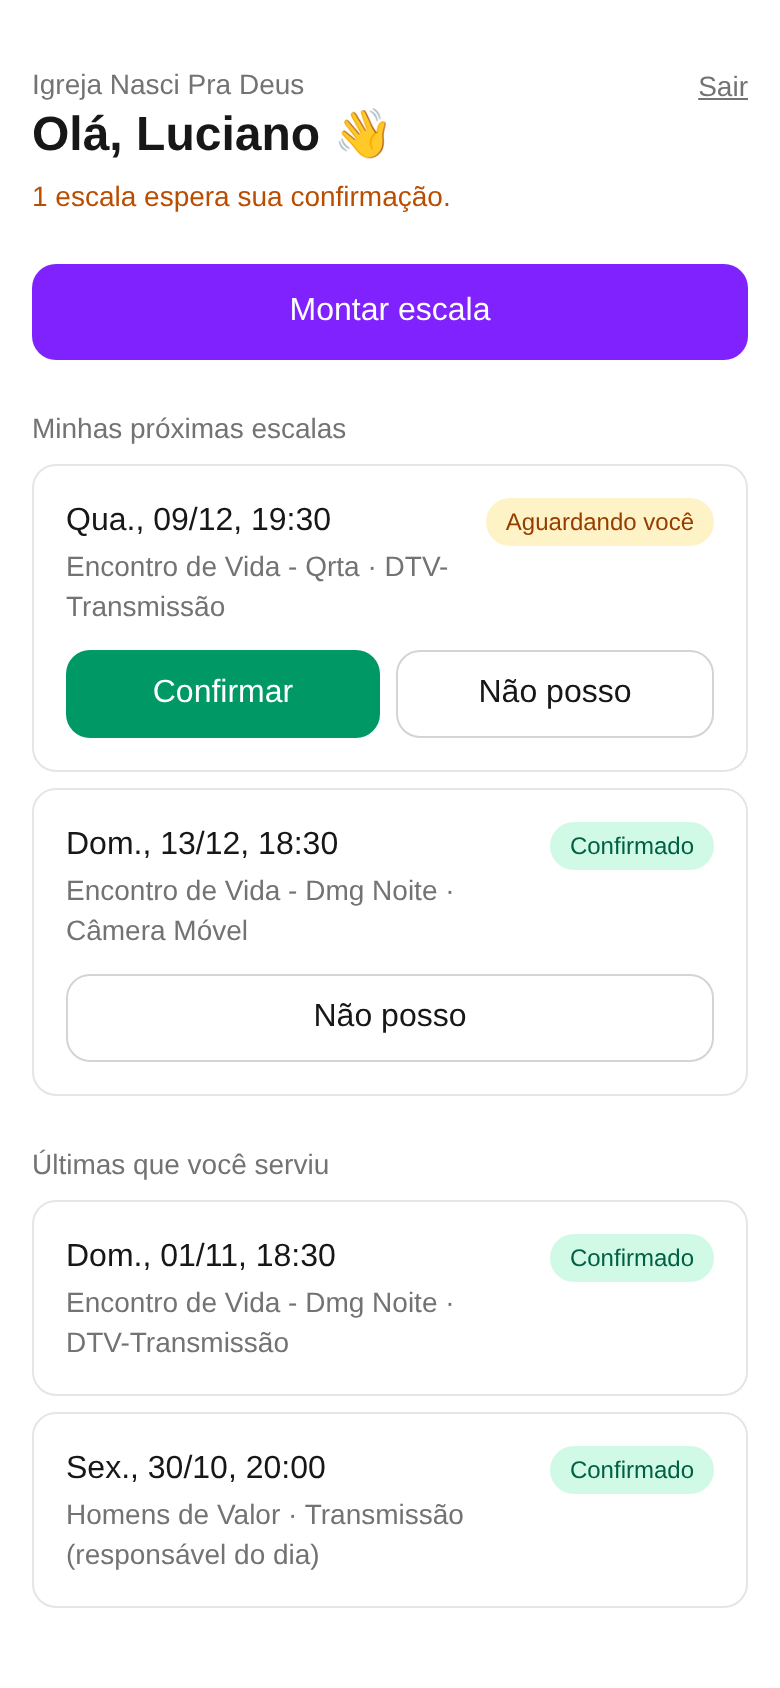
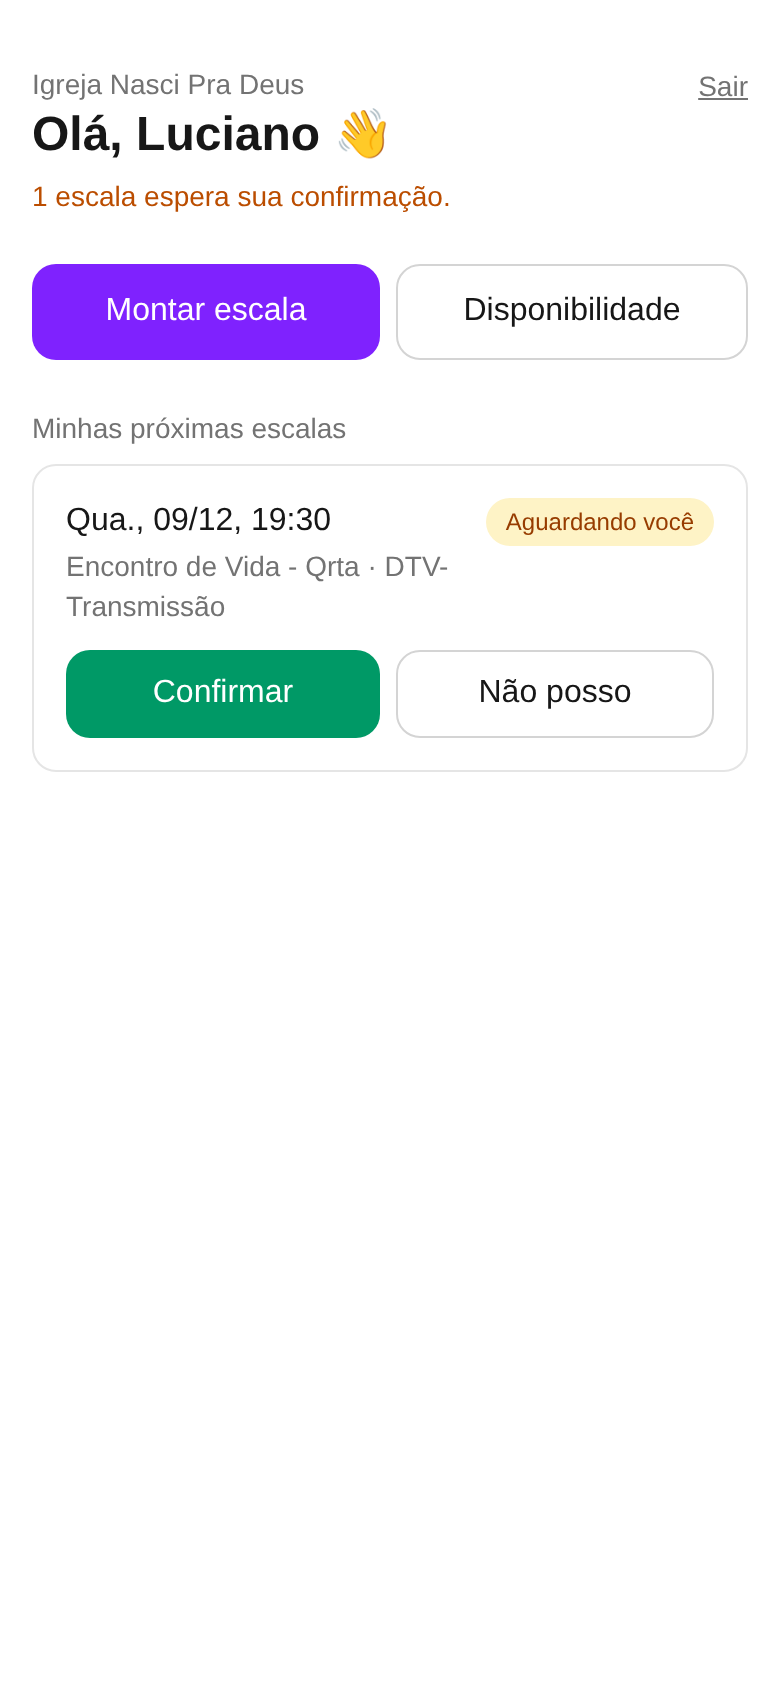
Tela Minha disponibilidade
O voluntário marca, para cada culto fixo, se pode sempre, às vezes (não
pode em certas semanas do mês: 1º a 5º) ou nunca, e cadastra viagens e
ausências por período. O rodízio da Montar escala já usa esses dados.

Claude-Session: https://claude.ai/code/session_01DEYH5sHLQRUz7gmxW8JRKX

diff --git a/src/app/disponibilidade/tela.tsx b/src/app/disponibilidade/tela.tsx
@@ -1,0 +1,165 @@
+"use client";
+
+import Link from "next/link";
+import { useState, useTransition } from "react";
+import type { Periodo } from "@/lib/escala/sugerir";
+import { nomeTurno } from "@/lib/turnos";
+import { adicionarBloqueio, removerBloqueio, salvarTurno } from "./acoes";
+
+export type RegraTurno = "sempre" | "nunca" | number[];
+
+const fmtDia = new Intl.DateTimeFormat("pt-BR", { timeZone: "UTC", day: "2-digit", month: "2-digit", year: "numeric" });
+const dia = (d: string) => fmtDia.format(new Date(`${d}T12:00:00Z`));
+
+function CartaoTurno({
+  turno,
+  ocupado,
+  rodar,
+}: {
+  turno: { diaSemana: number; periodo: Periodo; cultos: string[]; regra: RegraTurno };
+  ocupado: boolean;
+  rodar: (acao: () => Promise<{ erro: string | null }>) => void;
+}) {
+  const tipo = Array.isArray(turno.regra) ? "algumas" : turno.regra;
+  // "Algumas semanas" sem nenhuma marcada ainda é só um estado da tela.
+  const [mostrarSemanas, setMostrarSemanas] = useState(tipo === "algumas");
+  const ordens = Array.isArray(turno.regra) ? turno.regra : [];
+  const salvar = (regra: RegraTurno) => rodar(() => salvarTurno(turno.diaSemana, turno.periodo, regra));
+  const atual = mostrarSemanas ? "algumas" : tipo;
+
+  const opcao = (valor: string, texto: string, ao: () => void) => (
+    <button
+      disabled={ocupado}
+      onClick={ao}
+      className={`h-10 flex-1 rounded-lg text-sm font-medium disabled:opacity-60 ${atual === valor ? "bg-white shadow-sm dark:bg-neutral-700" : "text-neutral-500"}`}
+    >
+      {texto}
+    </button>
+  );
+
+  return (
+    <article className="rounded-xl border border-neutral-200 p-4 dark:border-neutral-800">
+      <p className="font-medium">{nomeTurno(turno)}</p>
+      <p className="mb-3 text-sm text-neutral-500">{turno.cultos.join(", ")}</p>
+      <div className="flex gap-1 rounded-xl bg-neutral-100 p-1 dark:bg-neutral-900">
+        {opcao("sempre", "Posso", () => {
+          setMostrarSemanas(false);
+          salvar("sempre");
+        })}
+        {opcao("algumas", "Às vezes", () => setMostrarSemanas(true))}
+        {opcao("nunca", "Não posso", () => {
+          setMostrarSemanas(false);
+          salvar("nunca");
+        })}
+      </div>
+      {mostrarSemanas && (
+        <div className="mt-3">
+          <p className="mb-2 text-sm text-neutral-500">Marque as semanas do mês em que você não pode:</p>
+          <div className="flex gap-2">
+            {[1, 2, 3, 4, 5].map((o) => {
+              const marcado = ordens.includes(o);
+              return (
+                <button
+                  key={o}
+                  disabled={ocupado}
+                  onClick={() => salvar(marcado ? ordens.filter((x) => x !== o) : [...ordens, o])}
+                  className={`h-10 flex-1 rounded-lg border text-sm font-medium disabled:opacity-60 ${marcado ? "border-red-300 bg-red-50 text-red-700 dark:border-red-800 dark:bg-red-950 dark:text-red-300" : "border-neutral-300 dark:border-neutral-700"}`}
+                >
+                  {o}º
+                </button>
+              );
+            })}
+          </div>
+        </div>
+      )}
+    </article>
+  );
+}
+
+export function TelaDisponibilidade({
+  turnos,
+  bloqueios,
+  hoje,
+}: {
+  turnos: { diaSemana: number; periodo: Periodo; cultos: string[]; regra: RegraTurno }[];
+  bloqueios: { id: string; inicio: string; fim: string; motivo: string | null }[];
+  hoje: string;
+}) {
+  const [ocupado, iniciar] = useTransition();
+  const [erro, setErro] = useState<string | null>(null);
+  const [novo, setNovo] = useState({ inicio: "", fim: "", motivo: "" });
+
+  const rodar = (acao: () => Promise<{ erro: string | null }>, depois?: () => void) =>
+    iniciar(async () => {
+      const r = await acao();
+      setErro(r.erro);
+      if (!r.erro) depois?.();
+    });
+
+  const campo = "h-11 rounded-xl border border-neutral-300 bg-transparent px-3 dark:border-neutral-700";
+
+  return (
+    <main className="mx-auto flex min-h-dvh max-w-md flex-col gap-6 px-4 py-8">
+      <header className="flex flex-col gap-1">
+        <Link href="/" className="text-sm text-neutral-500">
+          ← Minhas escalas
+        </Link>
+        <h1 className="text-2xl font-semibold">Minha disponibilidade</h1>
+        <p className="text-sm text-neutral-500">
+          O coordenador só sugere você nos dias em que você pode. Mudou algo? É só ajustar aqui.
+        </p>
+      </header>
+
+      {erro && <p className="rounded-xl bg-red-50 p-3 text-sm text-red-700 dark:bg-red-950 dark:text-red-300">{erro}</p>}
+
+      <section className="flex flex-col gap-2">
+        <h2 className="text-sm font-medium text-neutral-500">Cultos de toda semana</h2>
+        {turnos.map((t) => (
+          <CartaoTurno key={`${t.diaSemana}|${t.periodo}`} turno={t} ocupado={ocupado} rodar={rodar} />
+        ))}
+      </section>
+
+      <section className="flex flex-col gap-2">
+        <h2 className="text-sm font-medium text-neutral-500">Viagens e ausências</h2>
+        {bloqueios.length === 0 && <p className="text-sm text-neutral-500">Nenhuma ausência marcada.</p>}
+        {bloqueios.map((b) => (
+          <article key={b.id} className="flex items-center justify-between gap-3 rounded-xl border border-neutral-200 p-4 dark:border-neutral-800">
+            <div>
+              <p className="font-medium">{b.inicio === b.fim ? dia(b.inicio) : `${dia(b.inicio)} a ${dia(b.fim)}`}</p>
+              {b.motivo && <p className="text-sm text-neutral-500">{b.motivo}</p>}
+            </div>
+            <button disabled={ocupado} onClick={() => rodar(() => removerBloqueio(b.id))} className="text-sm text-red-600 underline disabled:opacity-50">
+              Remover
+            </button>
+          </article>
+        ))}
+
+        <form
+          className="flex flex-col gap-2 rounded-xl border border-dashed border-neutral-300 p-4 dark:border-neutral-700"
+          onSubmit={(e) => {
+            e.preventDefault();
+            rodar(() => adicionarBloqueio(novo.inicio, novo.fim || novo.inicio, novo.motivo), () =>
+              setNovo({ inicio: "", fim: "", motivo: "" }),
+            );
+          }}
+        >
+          <p className="font-medium">Adicionar ausência</p>
+          <div className="flex gap-2">
+            <label className="flex flex-1 flex-col gap-1 text-sm text-neutral-500">
+              De
+              <input type="date" required min={hoje} value={novo.inicio} onChange={(e) => setNovo({ ...novo, inicio: e.target.value })} className={campo} />
+            </label>
+            <label className="flex flex-1 flex-col gap-1 text-sm text-neutral-500">
+              Até
+              <input type="date" min={novo.inicio || hoje} value={novo.fim} onChange={(e) => setNovo({ ...novo, fim: e.target.value })} className={campo} />
+            </label>
+          </div>
+          <input placeholder="Motivo (opcional): viagem, plantão..." value={novo.motivo} onChange={(e) => setNovo({ ...novo, motivo: e.target.value })} className={campo} />
+          <button disabled={ocupado} className="h-11 rounded-xl bg-violet-600 font-medium text-white disabled:opacity-50">
+            {ocupado ? "Salvando..." : "Adicionar"}
+          </button>
+        </form>
+      </section>
+    </main>
+  );
+}

diff --git a/src/app/disponibilidade/acoes.ts b/src/app/disponibilidade/acoes.ts
@@ -1,0 +1,66 @@
+"use server";
+
+import { revalidatePath } from "next/cache";
+import type { Periodo } from "@/lib/escala/sugerir";
+import { criarClienteServidor } from "@/lib/supabase/server";
+
+type Resultado = { erro: string | null };
+const PERIODOS: Periodo[] = ["manha", "tarde", "noite"];
+const DATA = /^\d{4}-\d{2}-\d{2}$/;
+
+/**
+ * Regra de um turno: "sempre" posso, "nunca" posso, ou não posso só em
+ * algumas semanas do mês (1º a 5º).
+ */
+export async function salvarTurno(
+  diaSemana: number,
+  periodo: Periodo,
+  regra: "sempre" | "nunca" | number[],
+): Promise<Resultado> {
+  if (!Number.isInteger(diaSemana) || diaSemana < 0 || diaSemana > 6 || !PERIODOS.includes(periodo)) {
+    return { erro: "Turno inválido" };
+  }
+  const supabase = await criarClienteServidor();
+  const { data: eu } = await supabase.rpc("minha_pessoa");
+  if (!eu) return { erro: "Cadastro não encontrado" };
+
+  const { error: erroApagar } = await supabase
+    .from("indisponibilidades")
+    .delete()
+    .eq("pessoa_id", eu)
+    .eq("dia_semana", diaSemana)
+    .eq("periodo", periodo);
+  if (erroApagar) return { erro: erroApagar.message };
+
+  const ordens = Array.isArray(regra) ? [...new Set(regra)].filter((o) => o >= 1 && o <= 5) : [];
+  const linhas: { pessoa_id: string; dia_semana: number; periodo: Periodo; ordem_no_mes: number | null }[] =
+    regra === "nunca"
+      ? [{ pessoa_id: eu, dia_semana: diaSemana, periodo, ordem_no_mes: null }]
+      : ordens.map((o) => ({ pessoa_id: eu, dia_semana: diaSemana, periodo, ordem_no_mes: o }));
+  if (linhas.length) {
+    const { error } = await supabase.from("indisponibilidades").insert(linhas);
+    if (error) return { erro: error.message };
+  }
+  revalidatePath("/disponibilidade");
+  return { erro: null };
+}
+
+export async function adicionarBloqueio(inicio: string, fim: string, motivo: string): Promise<Resultado> {
+  if (!DATA.test(inicio) || !DATA.test(fim)) return { erro: "Informe as duas datas." };
+  if (fim < inicio) return { erro: "A data final vem antes da inicial." };
+  const supabase = await criarClienteServidor();
+  const { data: eu } = await supabase.rpc("minha_pessoa");
+  if (!eu) return { erro: "Cadastro não encontrado" };
+  const { error } = await supabase
+    .from("bloqueios")
+    .insert({ pessoa_id: eu, inicio, fim, motivo: motivo.trim().slice(0, 200) || null });
+  revalidatePath("/disponibilidade");
+  return { erro: error?.message ?? null };
+}
+
+export async function removerBloqueio(id: string): Promise<Resultado> {
+  const supabase = await criarClienteServidor();
+  const { error } = await supabase.from("bloqueios").delete().eq("id", id);
+  revalidatePath("/disponibilidade");
+  return { erro: error?.message ?? null };
+}

diff --git a/src/lib/turnos.ts b/src/lib/turnos.ts
@@ -1,0 +1,34 @@
+import type { Periodo } from "./escala/sugerir";
+
+export const DIAS_SEMANA = ["Domingo", "Segunda", "Terça", "Quarta", "Quinta", "Sexta", "Sábado"];
+export const PERIODOS: Record<Periodo, string> = { manha: "manhã", tarde: "tarde", noite: "noite" };
+
+/** Mesmo corte do motor de sugestão: antes de 12h manhã, antes de 18h tarde, senão noite. */
+export function periodoDaHora(hora: string): Periodo {
+  const h = Number(hora.slice(0, 2));
+  return h < 12 ? "manha" : h < 18 ? "tarde" : "noite";
+}
+
+export type Turno = { diaSemana: number; periodo: Periodo; cultos: string[] };
+
+/** Turnos dos cultos fixos (um por dia da semana + período), em ordem de quarta a domingo. */
+export function turnosDosCultos(tipos: { nome: string; dia_semana: number | null; hora: string | null }[]): Turno[] {
+  const mapa = new Map<string, Turno>();
+  for (const t of tipos) {
+    if (t.dia_semana == null || !t.hora) continue;
+    const periodo = periodoDaHora(t.hora);
+    const chave = `${t.dia_semana}|${periodo}`;
+    const turno = mapa.get(chave) ?? { diaSemana: t.dia_semana, periodo, cultos: [] };
+    turno.cultos.push(t.nome);
+    mapa.set(chave, turno);
+  }
+  const ordemDia = (d: number) => (d === 0 ? 7 : d); // domingo por último
+  const ordemPeriodo = { manha: 0, tarde: 1, noite: 2 };
+  return [...mapa.values()].sort(
+    (a, b) => ordemDia(a.diaSemana) - ordemDia(b.diaSemana) || ordemPeriodo[a.periodo] - ordemPeriodo[b.periodo],
+  );
+}
+
+export function nomeTurno(t: { diaSemana: number; periodo: Periodo | null }): string {
+  return t.periodo ? `${DIAS_SEMANA[t.diaSemana]} à ${PERIODOS[t.periodo]}`.replace("à manhã", "de manhã") : DIAS_SEMANA[t.diaSemana];
+}

diff --git a/src/app/disponibilidade/page.tsx b/src/app/disponibilidade/page.tsx
@@ -1,0 +1,38 @@
+import { redirect } from "next/navigation";
+import type { Periodo } from "@/lib/escala/sugerir";
+import { criarClienteServidor } from "@/lib/supabase/server";
+import { turnosDosCultos } from "@/lib/turnos";
+import { TelaDisponibilidade, type RegraTurno } from "./tela";
+
+export default async function Disponibilidade() {
+  const supabase = await criarClienteServidor();
+  const { data: eu } = await supabase.rpc("minha_pessoa");
+  if (!eu) redirect("/sem-cadastro");
+
+  const hoje = new Intl.DateTimeFormat("en-CA", { timeZone: "America/Sao_Paulo" }).format(new Date());
+  const [{ data: tipos }, { data: indisp }, { data: bloqueios }] = await Promise.all([
+    supabase.from("tipos_evento").select("nome, dia_semana, hora").eq("ativo", true).not("dia_semana", "is", null),
+    supabase.from("indisponibilidades").select("dia_semana, periodo, ordem_no_mes").eq("pessoa_id", eu),
+    supabase.from("bloqueios").select("id, inicio, fim, motivo").eq("pessoa_id", eu).gte("fim", hoje).order("inicio"),
+  ]);
+
+  const turnos = turnosDosCultos(tipos ?? []).map((t) => {
+    const minhas = (indisp ?? []).filter(
+      (i) => i.dia_semana === t.diaSemana && (i.periodo === t.periodo || i.periodo === null),
+    );
+    const regra: RegraTurno = minhas.some((i) => i.ordem_no_mes === null)
+      ? "nunca"
+      : minhas.length
+        ? minhas.map((i) => i.ordem_no_mes as number).sort()
+        : "sempre";
+    return { ...t, regra };
+  });
+
+  return (
+    <TelaDisponibilidade
+      turnos={turnos as { diaSemana: number; periodo: Periodo; cultos: string[]; regra: RegraTurno }[]}
+      bloqueios={bloqueios ?? []}
+      hoje={hoje}
+    />
+  );
+}

diff --git a/src/app/tela-inicio.tsx b/src/app/tela-inicio.tsx
@@ -79,14 +79,22 @@ export function TelaInicio({
         </form>
       </header>
 
-      {coordenador && (
+      <nav className="flex gap-2">
+        {coordenador && (
+          <Link
+            href="/montar"
+            className="flex h-12 flex-1 items-center justify-center rounded-xl bg-violet-600 font-medium text-white"
+          >
+            Montar escala
+          </Link>
+        )}
         <Link
-          href="/montar"
-          className="flex h-12 items-center justify-center rounded-xl bg-violet-600 font-medium text-white"
+          href="/disponibilidade"
+          className="flex h-12 flex-1 items-center justify-center rounded-xl border border-neutral-300 font-medium dark:border-neutral-700"
         >
-          Montar escala
+          Disponibilidade
         </Link>
-      )}
+      </nav>
 
       <section className="flex flex-col gap-2">
         <h2 className="text-sm font-medium text-neutral-500">Minhas próximas escalas</h2>

diff --git a/src/lib/turnos.test.ts b/src/lib/turnos.test.ts
@@ -1,0 +1,19 @@
+import { describe, expect, it } from "vitest";
+import { nomeTurno, periodoDaHora, turnosDosCultos } from "./turnos";
+
+describe("turnos", () => {
+  it("período pela hora", () => {
+    expect(periodoDaHora("09:00:00")).toBe("manha");
+    expect(periodoDaHora("15:00")).toBe("tarde");
+    expect(periodoDaHora("19:30:00")).toBe("noite");
+  });
+  it("turnos dos cultos fixos, de quarta a domingo", () => {
+    const t = turnosDosCultos([
+      { nome: "Dmg Noite", dia_semana: 0, hora: "18:30:00" },
+      { nome: "Qrta", dia_semana: 3, hora: "19:30:00" },
+      { nome: "Dmg Manhã", dia_semana: 0, hora: "09:00:00" },
+      { nome: "Especial", dia_semana: null, hora: null },
+    ]);
+    expect(t.map(nomeTurno)).toEqual(["Quarta à noite", "Domingo de manhã", "Domingo à noite"]);
+  });
+});

diff --git a/docs/CONTINUAR.md b/docs/CONTINUAR.md
@@ -46,8 +46,10 @@ gerenciamento deste ambiente só consegue **ler** o banco (usada para conferir).
    publicado: entrar como Luciano, abrir Montar escala → dezembro → Criar
    cultos fixos → Sugerir → Publicar; depois entrar como um voluntário e
    Confirmar / Não posso.
-8. Próximas ideias: tela de disponibilidade (voluntário marca quando não
-   pode), aviso por WhatsApp/e-mail ao publicar, cadastro de funções de
+8. ~~Tela **Minha disponibilidade**~~ feita (turnos dos cultos fixos com
+   Posso / Às vezes (1º–5º) / Não posso, e viagens/ausências por período).
+9. Próximas ideias: aviso por WhatsApp/e-mail ao publicar a escala,
+   coordenador ver a disponibilidade de todos, cadastro de funções de
    Projeção e Iluminação.
 
 ## Pendências com o coordenador
